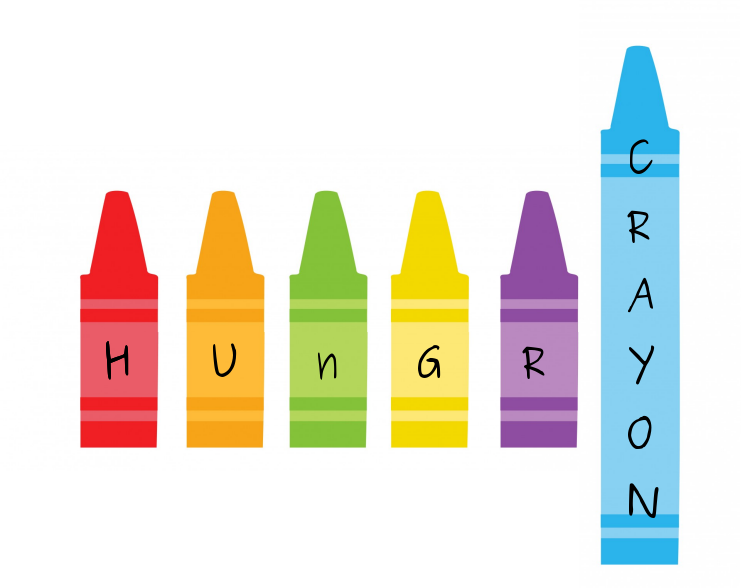
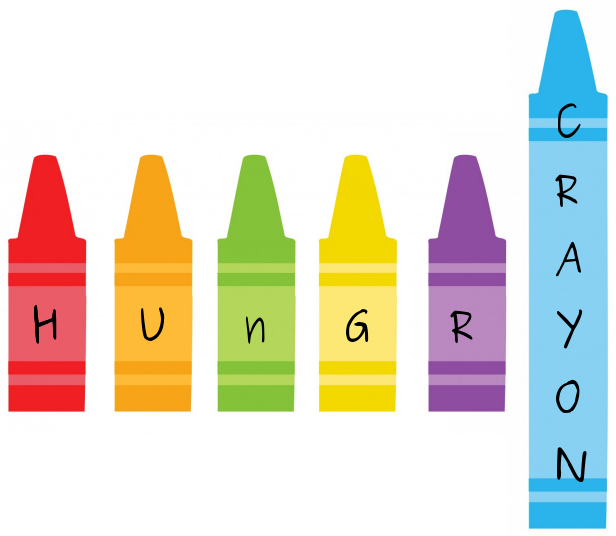
format changes for hungrycrayon landing page

diff --git a/web/login.php b/web/login.php
@@ -14,56 +14,61 @@ function draw_login() {
 }
 
 #login {
-    width:192px;
+    width:420px;
     margin:0px auto;
     border:none;
     margin-top:10px;
-    margin-bottom:10px;
+    margin-bottom:0px;
 }
 
 #input {
     display:inline-block;
     vertical-align:middle;
-    margin-left:20px
+    margin-bottom:10px;
+    margin-top:10px;;
+    <!margin-left:260px>;
     <!fpadding:10px;>
     <!line-height:30px;>
     <!background-color:#eeeeee;>
     <!height:228px;>
-    float:left;
+    float:right;
     text-align:middle;
-    width: 20px
+    width: 120px
     <!border: 3px solid #73AD21;>
     <!margin: auto;>   
     font-family: Arial, Helvetica, sans-serif;
-    font-size: 1em;
+    font-size: 2em;
 }
 
 #label {
     border:none;
     vertical-align:middle;
     display:inline-block;
+    margin-left:10px;
+    margin-bottom:10px;
+    margin-top:10px;
     float: left;
     text-align: left;
-    width: 80px;
+    width: 180px;
     font-family:Arial, Helvetic, sans-serif;
-    font-size: 1em;
+    font-size: 2em;
 </style>
 
 <body>
 <div id=pic>
 <center>
-<img src="hungrycrayon.png" alt="hUnGrYcRaYoN" style="width:314px;height:228px;">
+<img src="hungrycrayon.png" alt="hUnGrYcRaYoN" style=""width:628px;height:456px;">
 </center>
 </div>
 
 </body>
 
+<br><br>
 <form style="border:none" id=login action='validate-login.php?dummyfunc' method='post' accept-charset='UTF-8'>
 
 <fieldset >
 
 <input type='hidden' name='submitted' id='submitted' value='1'/>
-
 <div id=login>
 <div >
 <label id=label for='username' >username</label>
@@ -76,7 +81,9 @@ function draw_login() {
 </div>
  
 <div>
-<input id=label type='submit' name='submit' value='submit' />
+<center>
+<input id=input type='submit' name='submit' value='enter site' />
+</center>
 </div>
 </div>
  

diff --git a/web/quad-visit.php b/web/quad-visit.php
@@ -1,3 +1,19 @@
+<html>
+<style type="text/css">
+
+#content {
+
+    margin-top:50;
+    margin-left:200;
+    margin-right:200;
+    font-size: 150%;
+    line-height: 1.5;
+}
+
+</style>
+</html>
+
+
 <?php
 
 function draw_quadvisit () {
@@ -6,15 +22,17 @@ function draw_quadvisit () {
 
 <html>
 
-<button onclick="history.go(-1);">Back </button>
+<button id=content onclick="history.go(-1);">Back </button>
+
+<div id=content>
 
 <h3>Hungry Crayon - Quad Visit</h3>
 
-<p>In the context of our business plan, here are a few ideas of the types of things HungryCrayon may be able to help the Quad with</p>
+<p >In the context of our business plan, here are a few ideas of the types of things HungryCrayon may be able to help the Quad with</p>
 
 <h4>Small Business Automation</h4>
 
-<ul><li>Digitization and automation of the schools class scheduling and homework assignments to improve school efficiency and reduce annual running costs by ?? $/yr</li>
+<ul><li><span>Digitization and automation of the schools class scheduling and homework assignments to improve school efficiency and reduce annual running costs by ?? $/yr</li>
 <li> Solution could be in the form of an electronic version of the 'Binder', that has recently been unsuccessfully piloted</li>
 <li>Goal would be to make the 'eBinder' available on school provided personal electronic devices so that 'remembering to bring it' would not be an issue</li>
 <li> eBinder would use a central database and synchronize regularly throughout the day, making it easy to update scheduling information as needed</li>
@@ -72,6 +90,7 @@ function draw_quadvisit () {
     <li>http://www.alf.dk/media/Denmark_March_2013.pdf</li>
     <li>http://www.disabled-world.com/artman/publish/article_2086.shtml</li>
 </ul></ul>
+</div>
 </html>
 
 <?php

diff --git a/web/business-plan.php b/web/business-plan.php
@@ -1,12 +1,33 @@
+<html>
+<style type="text/css">
+
+#content {
+    font-size: 150%;
+    line-height:1.5;
+    margin-top:50;
+    margin-left:200;
+    margin-right:200;
+}
+
+#table {
+    font-size:100%;
+}
+
+</style>
+</html>
+
+
 <?php
 
-function draw_hungrycrayon1 () {
+function draw_businessplan () {
 
 ?>
 
 <html>
 
-<button onclick="history.go(-1);">Back </button>
+<button id=content onclick="history.go(-1);">Back </button>
+
+<div id=content>
 
 <h3>Hungry Crayon - The General Business plan</h3>
 
@@ -17,8 +38,8 @@ function draw_hungrycrayon1 () {
 <li>Open Source Software provides a very powerful and free library of software that has been developed over many years and is used in industry by many large Tech multi-national firms to provide mission-critical services<br>
 <p text-indent: 100px><i>"Open Source : Programmers can charge money for the open source software they create or to which they contribute. But because most open source licenses require them to release their source code when they sell software to others, many open source software programmers find that charging users money for software services and support (rather than for the software itself) is more lucrative. This way, their software remains free of charge and they make money helping others install, use, and troubleshoot it"</i></p>
 
-<h5> Potential Open Source Software Solutions</h5>
-<table border="2">
+<h4> Potential Open Source Software Solutions</h5>
+<table id=table border="2">
 <tr>
     <td>Operating System (Desktop)</td>
     <td><a href=http://www.ubuntu.com>Ubuntu</a></td>
@@ -101,5 +122,5 @@ function draw_hungrycrayon1 () {
 <?php
 }
 
-draw_hungrycrayon1();
+draw_businessplan();
 ?>

diff --git a/web/validate-login.php b/web/validate-login.php
@@ -1,3 +1,14 @@
+
+<html>
+<style>
+
+#menu {
+    font-family: Arial, Helvetica, sans-serif;
+    font-size: 2em;
+}
+</style>
+</html>
+
 <?php
 
 include "login.php";
@@ -6,8 +17,8 @@ function draw_menu($un,$pw) {
 
 	if (($un=='guest') and ($pw=='welcome')) {
 		echo "<div><center><br><br><br>";
-                echo "<a href='business-plan.php'>The Business Plan</a><br>";
-		echo "<a href='quad-visit.php'>Potential Projects for The Quad</a>";
+                echo "<a id=menu href='business-plan.php'>The Business Plan</a><br>";
+		echo "<a id=menu href='quad-visit.php'>Potential Projects for The Quad</a>";
 		echo "</center></div>";
 	}
 	else {
